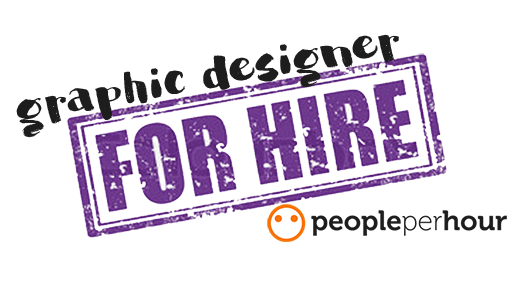
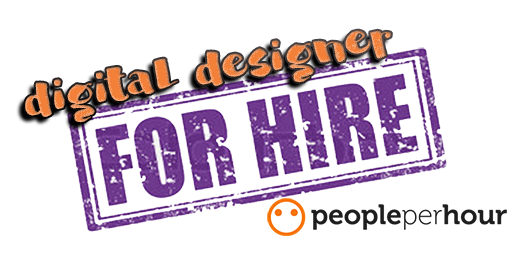
Orange accents added. New hire image.

Changed region(s): [[0.0305, 0.0889, 0.9752, 0.8889]]

diff --git a/base.css b/base.css
@@ -10,6 +10,10 @@ html {
   -webkit-text-size-adjust: 100%; /* 3 */
 }
 
+a {
+    color: #f38039;
+}
+
 .home_plain_text:link, .home_plain_text:visited {
     color: #ffffff;
 }
@@ -52,23 +56,16 @@ html {
 }
 
 .button-explore {
-    background-color: #5e2571;
+    /*background-color: #5e2571;*/
+    background-color: #f38039;
     color: white;
     text-align: center;
     text-transform: uppercase;
     font-size: 2.5rem;
-    margin-left: 40%;
+    margin-left: 30%;
     margin-top: 5%;
 }
 
-.button-menu {
-    background-color: #5e2571;
-    color: white;
-    text-align: center;
-    text-transform: uppercase;
-    font-size: 2.5rem;
-    position: absolute;
-}
 
 
 /*fonts*/
@@ -146,7 +143,7 @@ html {
         /*color: #021f40;*/
         /*color: #5e2571;*/
         color: white;
-        font-size: 5rem;
+        font-size: 7rem;
         text-transform: uppercase;
         text-align: center;
         position: relative;
@@ -272,7 +269,6 @@ html {
         }
         .name2, span.portfolio_submenu_text {
             font-size: 2.5rem;
-            color: #5e2571;
         }
         .description {
             font-size: 2rem;
@@ -329,9 +325,9 @@ html {
 
 /*media queries tablets 520-900px*/
     @media screen and (min-width:520px) and (max-width:900px) {
-        .button-explore {
+        /*.button-explore {
             display: none;
-        }
+        }*/
         ul.nav_menu li:not(:last-child) {
             display: none;
         }
@@ -503,7 +499,7 @@ html {
     .portfolio_submenu_text {
         text-align: center;
         font-size: 2.25rem;
-        color: #41434c;
+        color: #f38039;;
         text-transform: uppercase;
     }
     .img_border {
